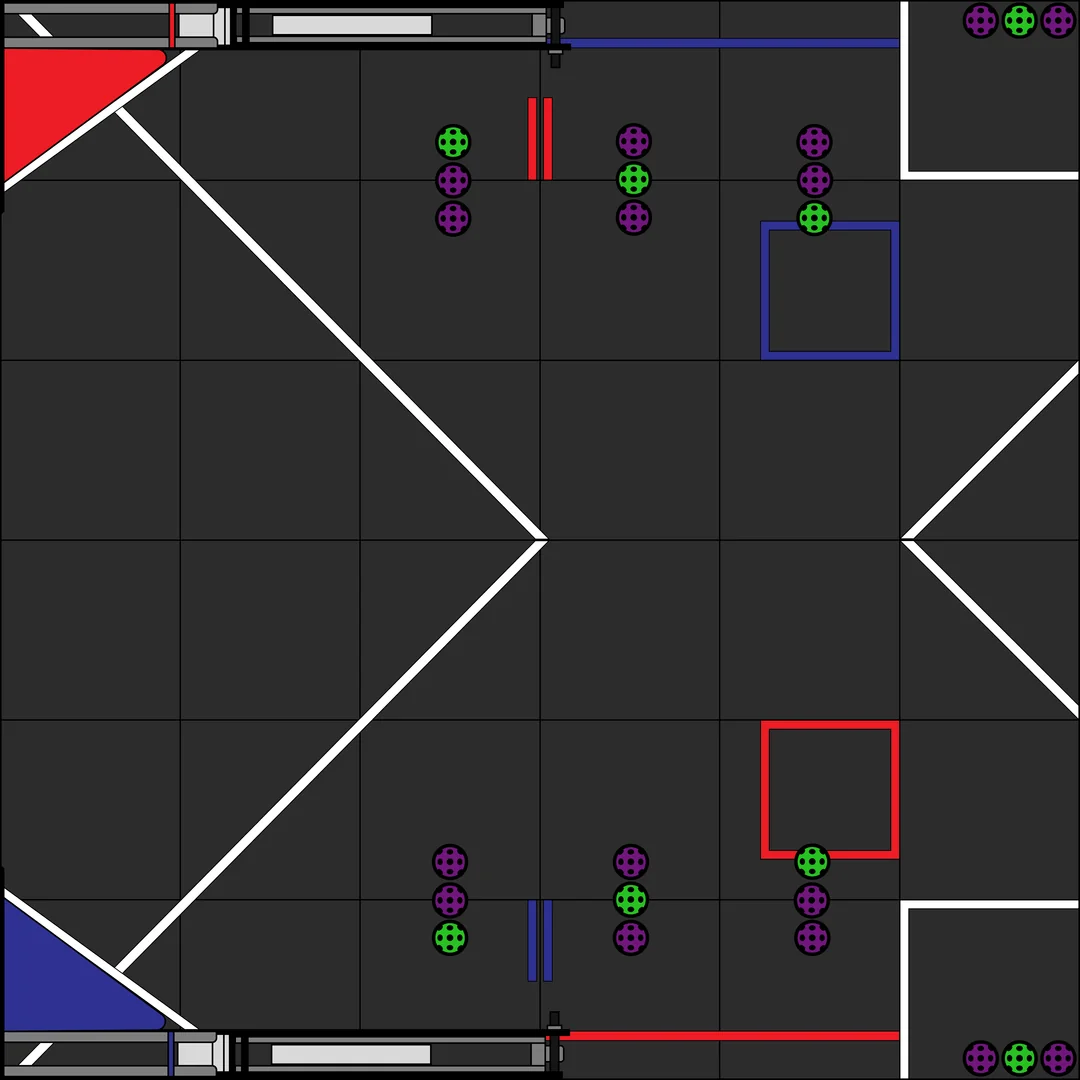
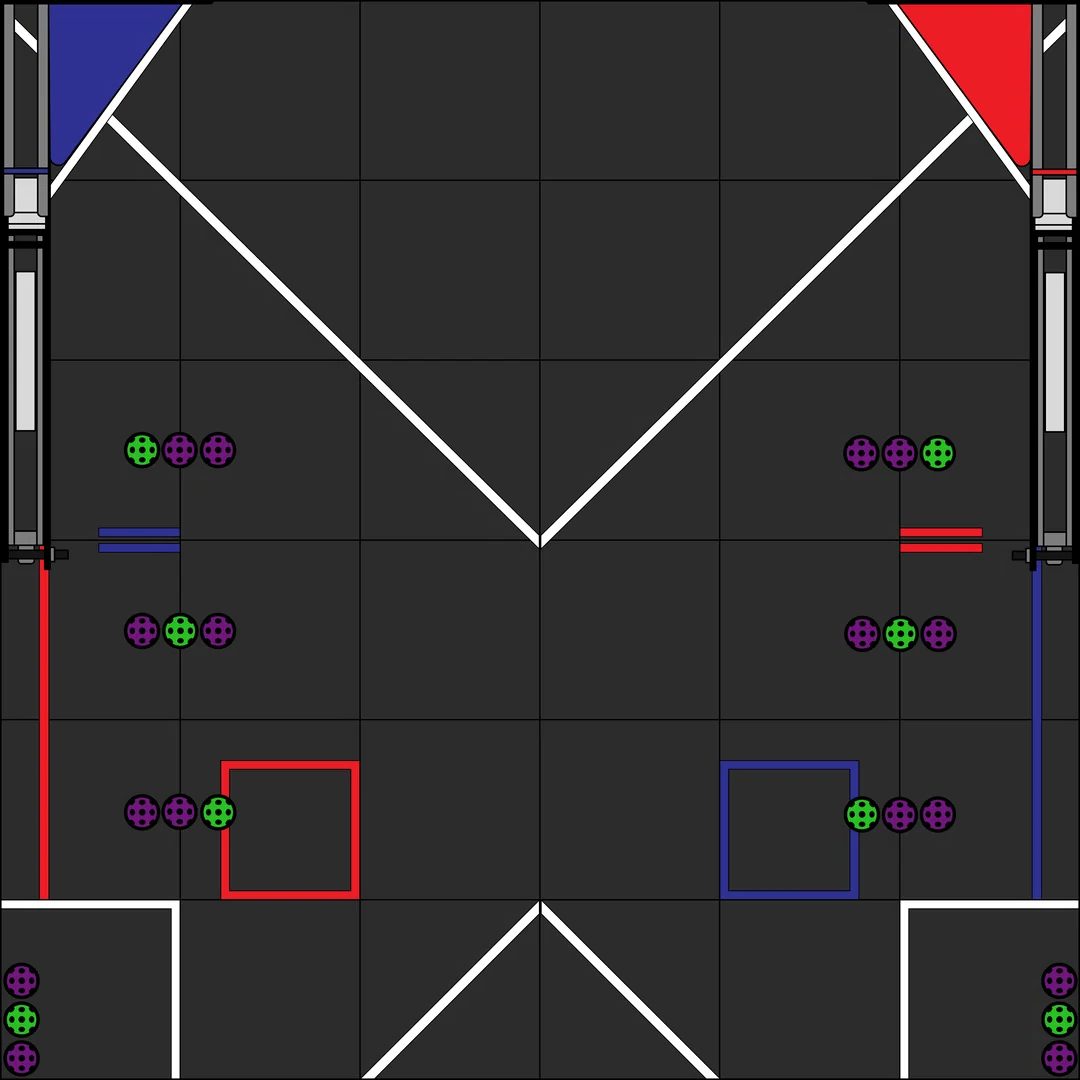
Fix colors and image

diff --git a/src/components/pose-controls.tsx b/src/components/pose-controls.tsx
@@ -1,0 +1,69 @@
+'use client'
+
+import { ScrollArea, ScrollBar } from "@/components/ui/scroll-area"
+import { Accordion, AccordionContent, AccordionItem, AccordionTrigger } from "@/components/ui/accordion";
+import { Button } from "@/components/ui/button";
+import { Plus } from "lucide-react";
+import { Switch } from "@/components/ui/switch";
+import { Input } from "@/components/ui/input";
+import { Field, FieldLabel } from "@/components/ui/field";
+
+export default function PoseControls(){
+    return (
+        <div className="flex h-full flex-col">
+            <div className="flex justify-center p-4 text-3xl font-bold text-white">
+                Poses
+            </div>
+            <Button className="flex m-4">
+                <Plus/>
+                Add Pose  
+            </Button>
+            <ScrollArea className="w-full flex-1 min-h-0 border-t p-4">
+                <div className="flex text-white">
+                    <Accordion type="single" collapsible defaultValue="item-1">
+                        <AccordionItem value="item-1">
+                        <AccordionTrigger>Pose 1</AccordionTrigger>
+                        <AccordionContent className="flex h-full"> 
+                            <div className="flex flex-col gap-3">
+                                <div className="flex flex-col gap-1">
+                                    <FieldLabel htmlFor="pose-name" className="text-muted-foreground text-white">
+                                        Pose name:
+                                    </FieldLabel>
+                                    <Input id="pose-name" type="text" placeholder="Pose" className="w-full" />
+                                </div>
+                                <div className="flex flex-col gap-1">
+                                    <FieldLabel htmlFor="x-input" className="text-muted-foreground  text-white">
+                                        x:
+                                    </FieldLabel>
+                                    <Input id="x-input" type="number" placeholder="X"className="w-20"  />
+                                </div>
+                                <div className="flex flex-col gap-1.5">
+                                    <FieldLabel htmlFor="y-input" className="text-muted-foreground  text-white">
+                                        y:
+                                    </FieldLabel>
+                                    <Input id="y-input" type="number" placeholder="Y" className="w-20"  />
+                                </div>
+                                <div className="flex items-center space-x-2">
+                                    <Switch id="arc-pose"  />
+                                    <label htmlFor="arc-pose" className="text-sm select-none cursor-pointer">
+                                        Arc Pose
+                                    </label>
+                                </div>
+                                <div className="flex items-center space-x-2">
+                                    <label htmlFor="local" className="text-sm select-none cursor-pointer">
+                                        Local
+                                    </label>
+                                    <Switch id="local-global"/>
+                                    <label htmlFor="global" className="text-sm select-none cursor-pointer">
+                                        Global
+                                    </label>
+                                </div>
+                            </div>
+                        </AccordionContent>
+                        </AccordionItem>
+                    </Accordion>
+                </div>
+            </ScrollArea> 
+        </div>
+    );
+}

diff --git a/src/app/page.tsx b/src/app/page.tsx
@@ -1,49 +1,38 @@
 'use client'
 import { ResizableHandle, ResizablePanel, ResizablePanelGroup } from "@/components/ui/resizable";
-import { ScrollArea, ScrollBar } from "@/components/ui/scroll-area"
-import { Accordion, AccordionContent, AccordionItem, AccordionTrigger } from "@/components/ui/accordion";
-import { Button } from "@/components/ui/button";
-import { Plus } from "lucide-react";
-import { Switch } from "@/components/ui/switch";
-import { Input } from "@/components/ui/input";
-import { Field, FieldLabel } from "@/components/ui/field";
-import PoseControls from "@/components/poseControls";
-
+import PoseControls from "@/components/pose-controls";
 
 export default function Home() {
   return (
-    <div className="flex flex-row h-screen p-4 font-mono bg-[#1c1c1c]">
+    <div className="flex flex-row h-screen p-4">
       <ResizablePanelGroup
         orientation="horizontal"
-        className="min-h-full max-w-md rounded-lg border md:min-w-full"
+        className="min-h-full max-w-md rounded-lg border min-w-full"
       >
-        <ResizablePanel defaultSize="16.7%" maxSize="30%" minSize="7.5%">
-      
+        <ResizableHandle withHandle />
+        <ResizablePanel defaultSize="25%" maxSize="30%" minSize="15%">
           <span>
             <PoseControls/>
           </span>
         </ResizablePanel>
         <ResizableHandle withHandle />
-
-        
-        <ResizablePanel defaultSize="58.3%" minSize="40%">
-          <div className="flex h-full items-center justify-center">
-              <span className="font-semibold">
-                <img src = "./images/decodeField.png"/>
-              </span>
+        <ResizablePanel defaultSize="50%" minSize="40%">
+          <div className="flex h-full w-full items-center justify-center overflow-hidden">
+              <img 
+                  src="./images/decodeField.png" 
+                  className="max-h-full max-w-full object-contain" 
+                  alt="Decode Field"
+              />
           </div>
         </ResizablePanel>
         <ResizableHandle withHandle />
-        <ResizablePanel defaultSize="25%" maxSize="30%" minSize="10%">
+        <ResizablePanel defaultSize="25%" maxSize="30%" minSize="15%">
           <div className="h-full items-center justify-center p-6 h-f">
             <span className="font-semibold">
-              
               <div className="flex h-full items-start justify-center p-6 text-3xl text-bold">
                 Paths
               </div>
-              
-              
-              </span>
+            </span>
           </div>
         </ResizablePanel>
       </ResizablePanelGroup>

diff --git a/src/app/globals.css b/src/app/globals.css
@@ -2,8 +2,6 @@
 @import "tw-animate-css";
 @import "shadcn/tailwind.css";
 
-@custom-variant dark (&:is(.dark *));
-
 @theme inline {
   --color-background: var(--background);
   --color-foreground: var(--foreground);
@@ -49,13 +47,13 @@
 }
 
 :root {
-  --background: oklch(1 0 0);
+  --background: #111111;
   --foreground: oklch(0.145 0 0);
   --card: oklch(1 0 0);
   --card-foreground: oklch(0.145 0 0);
   --popover: oklch(1 0 0);
   --popover-foreground: oklch(0.145 0 0);
-  --primary: oklch(0.205 0 0);
+  --primary: #C00000;
   --primary-foreground: oklch(0.985 0 0);
   --secondary: oklch(0.97 0 0);
   --secondary-foreground: oklch(0.205 0 0);
@@ -84,14 +82,14 @@
 }
 
 .dark {
-  --background: oklch(0.145 0 0);
+  --background: #111111;
   --foreground: oklch(0.985 0 0);
   --card: oklch(0.205 0 0);
   --card-foreground: oklch(0.985 0 0);
   --popover: oklch(0.205 0 0);
   --popover-foreground: oklch(0.985 0 0);
-  --primary: oklch(0.922 0 0);
-  --primary-foreground: oklch(0.205 0 0);
+  --primary: #C00000;
+  --primary-foreground: oklch(0.985 0 0);
   --secondary: oklch(0.269 0 0);
   --secondary-foreground: oklch(0.985 0 0);
   --muted: oklch(0.269 0 0);

diff --git a/src/app/layout.tsx b/src/app/layout.tsx
@@ -1,6 +1,6 @@
 import type { Metadata } from "next";
 import { Geist, Geist_Mono } from "next/font/google";
-import { SidebarProvider, SidebarTrigger } from "@/components/ui/sidebar";
+import { ThemeProvider } from "@wrksz/themes/next";
 import "./globals.css";
 
 const geistSans = Geist({
@@ -23,8 +23,11 @@ export default function RootLayout({ children }: Readonly<{ children: React.Reac
     <html
       lang="en"
       className={`${geistSans.variable} ${geistMono.variable} h-full antialiased`}
+      suppressHydrationWarning
     >
-      <body className="min-h-full flex flex-col">{children}</body>
+      <ThemeProvider forcedTheme="dark" attribute="class" >
+        <body className="min-h-full flex flex-col font-mono">{children}</body>
+      </ThemeProvider>
     </html>
   );
 }